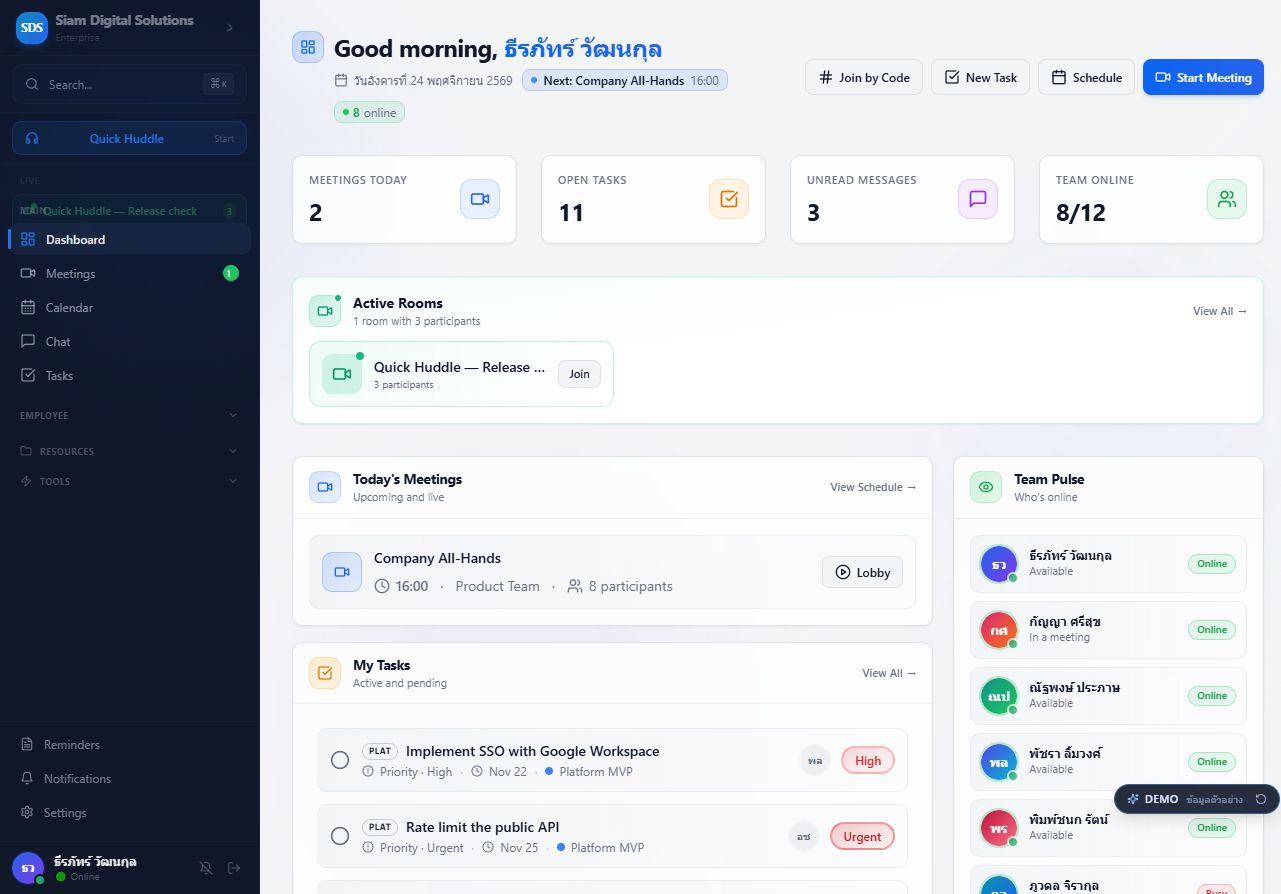
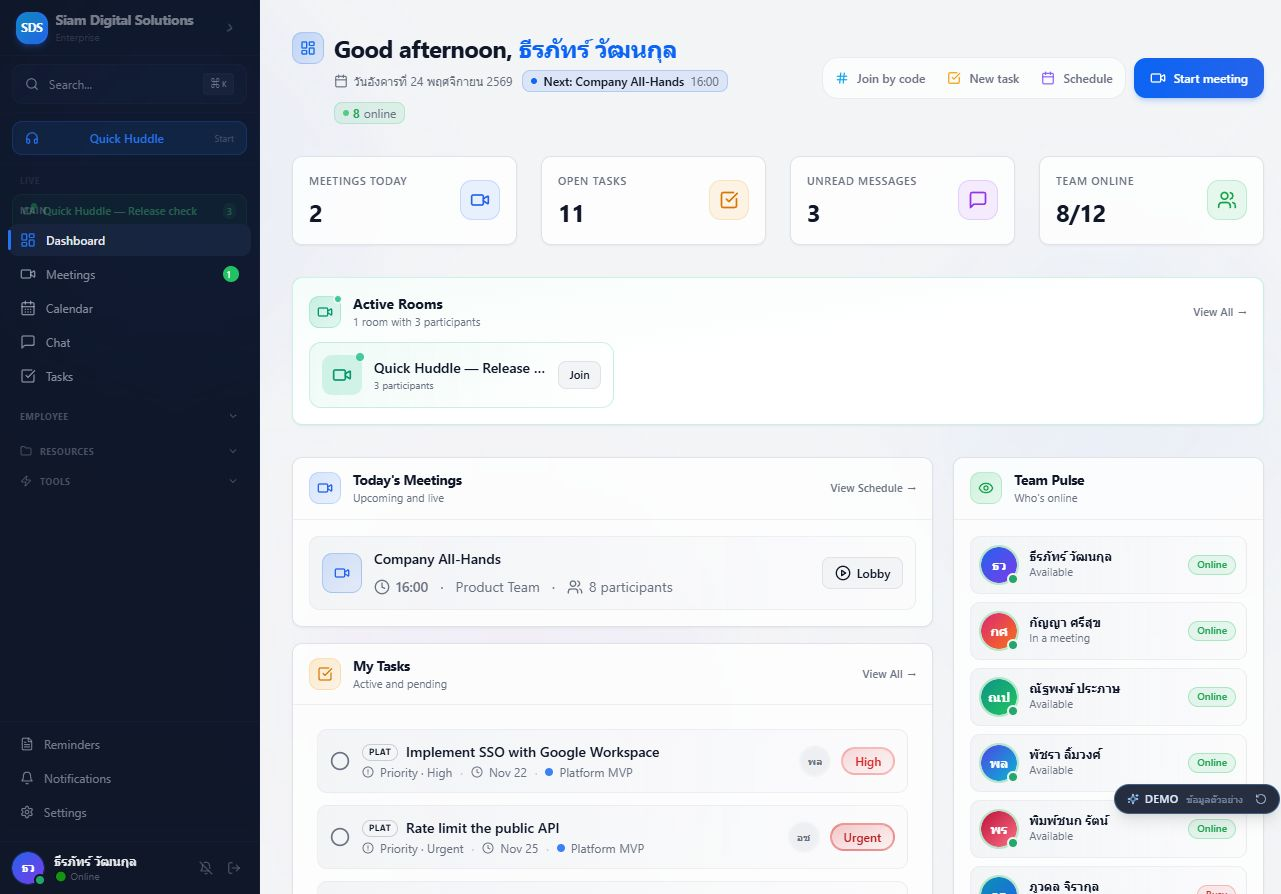
Add a unified quick action bar to the dashboard

diff --git a/src/pages/Dashboard.tsx b/src/pages/Dashboard.tsx
@@ -7,13 +7,12 @@ import {
   MessageSquare,
   CheckSquare,
   Users,
-  Hash,
   Sparkles,
   LayoutDashboard,
 } from "lucide-react";
 import { Card, CardContent } from "@/components/ui/card";
 import { Button } from "@/components/ui/button";
-import { TooltipProvider, Tooltip, TooltipContent, TooltipTrigger } from "@/components/ui/tooltip";
+import { TooltipProvider } from "@/components/ui/tooltip";
 
 import CreateMeetingDialog from "@/components/dialogs/CreateMeetingDialog";
 import CreateTaskDialog from "@/components/dialogs/CreateTaskDialog";
@@ -34,6 +33,7 @@ import {
   ActiveRoomsCard,
   containerVariants,
   itemVariants,
+  QuickActions,
 } from "@/components/dashboard";
 import type { MeetingItem, TaskItem, MemberItem, DashboardStats, KpiCardConfig } from "@/components/dashboard";
 
@@ -42,6 +42,7 @@ export default function Dashboard() {
   const [showCreateMeeting, setShowCreateMeeting] = useState(false);
   const [showCreateTask, setShowCreateTask] = useState(false);
   const [showJoinByCode, setShowJoinByCode] = useState(false);
+  const [creatingHuddle, setCreatingHuddle] = useState(false);
 
   const [todayMeetings, setTodayMeetings] = useState<MeetingItem[]>([]);
   const [recentTasks, setRecentTasks] = useState<TaskItem[]>([]);
@@ -213,7 +214,6 @@ export default function Dashboard() {
 
   useEffect(() => {
     loadData();
-  // eslint-disable-next-line react-hooks/exhaustive-deps
   }, [currentUser?.id]);
 
   // Real-time WebSocket listeners for Dashboard
@@ -417,6 +417,8 @@ export default function Dashboard() {
   };
 
   const createQuickHuddle = async () => {
+    if (creatingHuddle) return;
+    setCreatingHuddle(true);
     try {
       const meeting = await apiPost<any>("/meetings/quick-huddle", {});
       toast.success("Quick Huddle created", {
@@ -428,6 +430,8 @@ export default function Dashboard() {
       toast.error("Failed to create Quick Huddle", {
         description: err.message || "Please try again",
       });
+    } finally {
+      setCreatingHuddle(false);
     }
   };
 
@@ -530,7 +534,8 @@ export default function Dashboard() {
                     <LayoutDashboard className="w-3.5 h-3.5 sm:w-4 sm:h-4 text-primary" />
                   </div>
                   <h1 className="text-lg sm:text-xl md:text-2xl font-bold tracking-tight text-foreground truncate">
-                    {greeting}, <span className="bg-gradient-to-r from-primary to-blue-600 bg-clip-text text-transparent">{currentUser?.name || "User"}</span>
+                    {greeting},{" "}
+                    <span className="font-bold text-primary">{currentUser?.name || "User"}</span>
                   </h1>
                 </div>
                 <div className="flex flex-wrap items-center gap-1.5 sm:gap-2.5 text-[10px] sm:text-xs text-muted-foreground ml-[35px] sm:ml-[42px]">
@@ -562,47 +567,13 @@ export default function Dashboard() {
                 </div>
               </div>
 
-              <div className="flex flex-wrap gap-1.5 sm:gap-2 lg:flex-nowrap mt-2 sm:mt-0">
-                <Tooltip>
-                  <TooltipTrigger asChild>
-                    <Button variant="outline" size="sm" onClick={() => setShowJoinByCode(true)} className="h-9 gap-1.5 text-xs bg-background/50 hover:bg-background hover:border-primary/50 transition-all group">
-                      <Hash className="h-3.5 w-3.5 group-hover:rotate-12 transition-transform" />
-                      <span className="hidden sm:inline">Join by Code</span>
-                      <span className="sm:hidden">Join</span>
-                    </Button>
-                  </TooltipTrigger>
-                  <TooltipContent>เข้าร่วมการประชุมด้วยรหัส</TooltipContent>
-                </Tooltip>
-                <Tooltip>
-                  <TooltipTrigger asChild>
-                    <Button variant="outline" size="sm" onClick={() => setShowCreateTask(true)} className="h-9 gap-1.5 text-xs bg-background/50 hover:bg-background hover:border-amber-500/50 transition-all group">
-                      <CheckSquare className="h-3.5 w-3.5 group-hover:scale-110 transition-transform" />
-                      <span className="hidden sm:inline">New Task</span>
-                      <span className="sm:hidden">Task</span>
-                    </Button>
-                  </TooltipTrigger>
-                  <TooltipContent>สร้างงานใหม่</TooltipContent>
-                </Tooltip>
-                <Tooltip>
-                  <TooltipTrigger asChild>
-                    <Button variant="outline" size="sm" onClick={() => setShowCreateMeeting(true)} className="h-9 gap-1.5 text-xs bg-background/50 hover:bg-background hover:border-blue-500/50 transition-all group">
-                      <Calendar className="h-3.5 w-3.5 group-hover:scale-110 transition-transform" />
-                      <span className="hidden sm:inline">Schedule</span>
-                      <span className="sm:hidden">Meet</span>
-                    </Button>
-                  </TooltipTrigger>
-                  <TooltipContent>กำหนดการประชุม</TooltipContent>
-                </Tooltip>
-                <Button
-                  size="sm"
-                  className="h-9 gap-1.5 text-xs bg-gradient-to-r from-primary to-blue-600 hover:from-primary/90 hover:to-blue-500 shadow-md hover:shadow-lg transition-all group"
-                  onClick={createQuickHuddle}
-                >
-                  <Video className="h-3.5 w-3.5 group-hover:scale-110 transition-transform" />
-                  <span className="hidden sm:inline">Start Meeting</span>
-                  <span className="sm:hidden">Start</span>
-                </Button>
-              </div>
+              <QuickActions
+                onJoinByCode={() => setShowJoinByCode(true)}
+                onNewTask={() => setShowCreateTask(true)}
+                onSchedule={() => setShowCreateMeeting(true)}
+                onStartMeeting={createQuickHuddle}
+                startingMeeting={creatingHuddle}
+              />
             </div>
           </motion.div>
 

diff --git a/src/components/dashboard/QuickActions.tsx b/src/components/dashboard/QuickActions.tsx
@@ -1,0 +1,99 @@
+import { Calendar, CheckSquare, Hash, Loader2, Video } from "lucide-react";
+import { Button } from "@/components/ui/button";
+import { Tooltip, TooltipContent, TooltipTrigger } from "@/components/ui/tooltip";
+import { cn } from "@/lib/utils";
+
+interface QuickActionsProps {
+  onJoinByCode: () => void;
+  onNewTask: () => void;
+  onSchedule: () => void;
+  onStartMeeting: () => void;
+  startingMeeting?: boolean;
+}
+
+const secondaryActionClass =
+  "group inline-flex h-9 items-center gap-2 rounded-xl px-2.5 text-xs font-medium text-muted-foreground outline-none transition-[background-color,color,transform] duration-150 focus-visible:ring-2 focus-visible:ring-primary/30 active:scale-[0.98]";
+
+export default function QuickActions({
+  onJoinByCode,
+  onNewTask,
+  onSchedule,
+  onStartMeeting,
+  startingMeeting = false,
+}: QuickActionsProps) {
+  return (
+    <div className="flex w-full flex-wrap items-center gap-2 sm:w-auto sm:flex-nowrap">
+      <div className="flex items-center gap-0.5 rounded-2xl border border-border/60 bg-card/70 p-0.5">
+        <Tooltip>
+          <TooltipTrigger asChild>
+            <button
+              type="button"
+              onClick={onJoinByCode}
+              aria-label="Join a meeting by code"
+              className={cn(
+                secondaryActionClass,
+                "hover:bg-sky-500/10 hover:text-sky-700 dark:hover:text-sky-300",
+              )}
+            >
+              <Hash className="h-3.5 w-3.5 text-sky-500 transition-transform duration-150 group-hover:rotate-6" />
+              <span className="hidden sm:inline">Join by code</span>
+            </button>
+          </TooltipTrigger>
+          <TooltipContent>เข้าร่วมการประชุมด้วยรหัส</TooltipContent>
+        </Tooltip>
+
+        <Tooltip>
+          <TooltipTrigger asChild>
+            <button
+              type="button"
+              onClick={onNewTask}
+              aria-label="Create a new task"
+              className={cn(
+                secondaryActionClass,
+                "hover:bg-amber-500/10 hover:text-amber-700 dark:hover:text-amber-300",
+              )}
+            >
+              <CheckSquare className="h-3.5 w-3.5 text-amber-500 transition-transform duration-150 group-hover:-rotate-3" />
+              <span className="hidden sm:inline">New task</span>
+            </button>
+          </TooltipTrigger>
+          <TooltipContent>สร้างงานใหม่</TooltipContent>
+        </Tooltip>
+
+        <Tooltip>
+          <TooltipTrigger asChild>
+            <button
+              type="button"
+              onClick={onSchedule}
+              aria-label="Schedule a meeting"
+              className={cn(
+                secondaryActionClass,
+                "hover:bg-violet-500/10 hover:text-violet-700 dark:hover:text-violet-300",
+              )}
+            >
+              <Calendar className="h-3.5 w-3.5 text-violet-500 transition-transform duration-150 group-hover:-translate-y-0.5" />
+              <span className="hidden sm:inline">Schedule</span>
+            </button>
+          </TooltipTrigger>
+          <TooltipContent>กำหนดการประชุม</TooltipContent>
+        </Tooltip>
+      </div>
+
+      <Button
+        type="button"
+        size="sm"
+        onClick={onStartMeeting}
+        disabled={startingMeeting}
+        className="h-10 gap-2 rounded-xl bg-gradient-to-r from-primary to-blue-600 px-4 text-xs font-semibold shadow-md shadow-primary/20 transition-all duration-200 hover:from-primary/95 hover:to-blue-500 hover:shadow-lg hover:shadow-primary/25 active:scale-[0.98]"
+      >
+        {startingMeeting ? (
+          <Loader2 className="h-4 w-4 animate-spin" />
+        ) : (
+          <Video className="h-4 w-4" />
+        )}
+        <span className="hidden sm:inline">{startingMeeting ? "Starting…" : "Start meeting"}</span>
+        <span className="sm:hidden">{startingMeeting ? "…" : "Start"}</span>
+      </Button>
+    </div>
+  );
+}

diff --git a/src/components/dashboard/index.ts b/src/components/dashboard/index.ts
@@ -6,3 +6,4 @@ export { TaskCard } from "./TaskCard";
 export { TeamPulseCard } from "./TeamPulseCard";
 export { ActiveRoomsCard } from "./ActiveRoomsCard";
 export { StandupCard } from "./StandupCard";
+export { default as QuickActions } from "./QuickActions";
